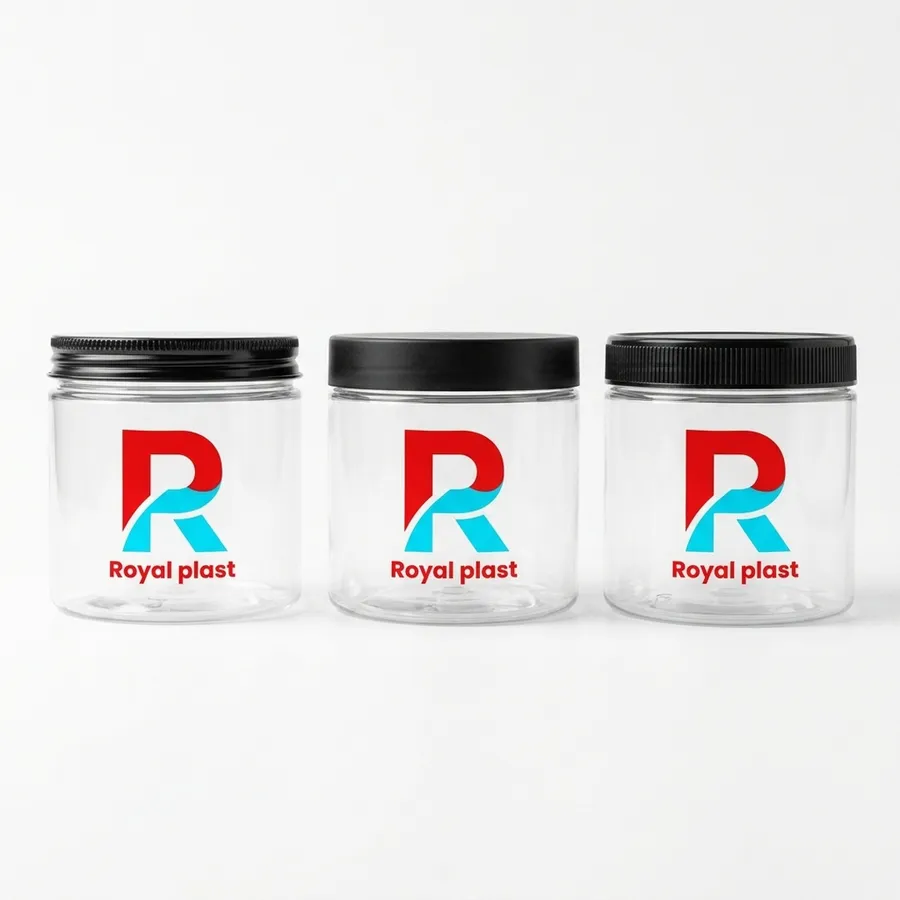
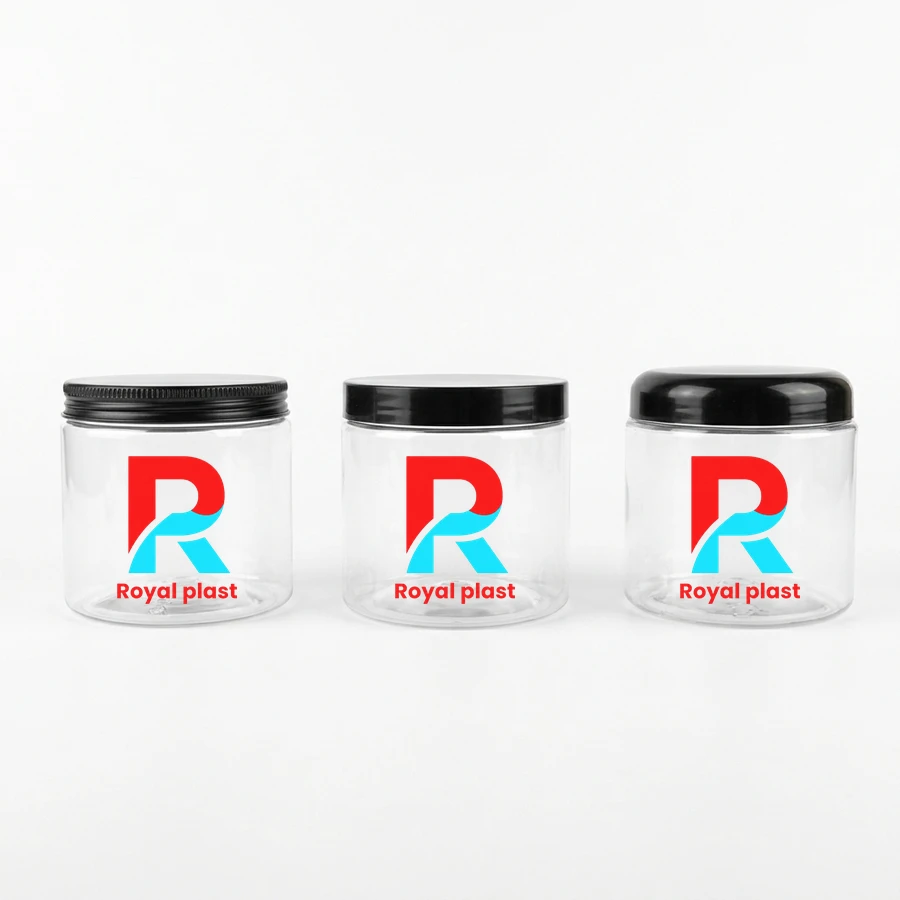
RP-157: regenerate clear jars image from original, exact lids
Claude-Session: https://claude.ai/code/session_01RHpAwk7S9yFShcnyhoKaQD

Changed region(s): [[0.0311, 0.3422, 0.9644, 0.7156], [0.3733, 0.6533, 0.4044, 0.6844]]

diff --git a/app.js b/app.js
@@ -55,7 +55,7 @@ function fullTitle(p){return `${t(p.cat=='jar'?'jar':'bottle')} ${sizesTxt(p)}`.
 function sub(p){if(p.nospec)return t('nospec');const a=[];if(p.necks.length)a.push(p.necks.map(n=>'NK'+n).join(' / '));p.caps.forEach(c=>a.push(capName(c)));p.extra.forEach(e=>a.push(lang=='ar'?e.ar:e.en));return a.join(' · ')}
 const colTxt=p=>p.colors.map(c=>t(c)).join('، ').replace(/،/g,lang=='ar'?'، ':', ');
 const dotsHTML=p=>`<span class="dots">${p.colors.map(c=>`<i class="dot d-${c}" title="${t(c)}"></i>`).join('')}</span>`;
-const IMGV='20261110e';const imgU=n=>`img/${n}.webp?v=${IMGV}`,thU=n=>`t/${n}.webp?v=${IMGV}`;
+const IMGV='20261110f';const imgU=n=>`img/${n}.webp?v=${IMGV}`,thU=n=>`t/${n}.webp?v=${IMGV}`;
 function reveal(root){const io=new IntersectionObserver(es=>es.forEach(e=>{if(e.isIntersecting){e.target.classList.add('in');io.unobserve(e.target)}}),{threshold:.12,rootMargin:'0px 0px -40px 0px'});
  (root||document).querySelectorAll('.rv:not(.in)').forEach(el=>io.observe(el))}
 function applyLang(){document.documentElement.lang=lang;document.documentElement.dir=lang=='ar'?'rtl':'ltr';
